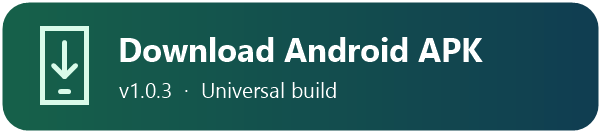
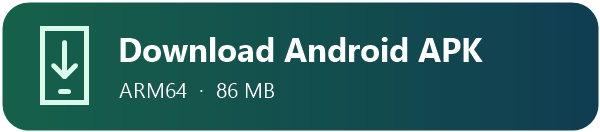
Make the 86 MB ARM64 APK the primary download

Changed region(s): [[0.18, 0.6061, 0.57, 0.7576]]

diff --git a/README.md b/README.md
@@ -7,11 +7,11 @@
 <p align="center">Download web videos, stream movies from integrated sources, and keep personal media in a PIN- or fingerprint-protected Vault.</p>
 
 <p align="center">
-  <a href="https://github.com/shahinrezasifat1999/all-in-one/releases/download/v1.0.3/all-in-one-v1.0.3.apk"><img src="docs/media/download-android.png" alt="Download Android APK v1.0.3 directly" width="300"></a>
+  <a href="https://github.com/shahinrezasifat1999/all-in-one/releases/download/v1.0.3/split-all-in-one-v1.0.3-arm64-v8a.apk"><img src="docs/media/download-android.png" alt="Download Android APK v1.0.3 for ARM64, 86 MB" width="300"></a>
 </p>
 
 <p align="center">
-  Android 7.0+ · <a href="#android-screenshots">See the app</a> · <a href="#download-and-install-on-android">Install guide</a> · <a href="https://github.com/shahinrezasifat1999/all-in-one/releases/latest">All APK variants</a>
+  Android 7.0+ · <a href="#android-screenshots">See the app</a> · <a href="#download-and-install-on-android">Install guide</a> · <a href="#choose-a-build">Other Android devices</a>
 </p>
 
 ## What can you do with All in One?
@@ -58,9 +58,20 @@ The YouTube images show the formats listed for that video. The download and Vaul
 
 ## Download and install on Android
 
-1. Select **Download Android APK** above for the universal build. [Direct APK download](https://github.com/shahinrezasifat1999/all-in-one/releases/download/v1.0.3/all-in-one-v1.0.3.apk)
+### Choose a build
+
+| Android APK | Download size | Device |
+| --- | ---: | --- |
+| [ARM64 (arm64-v8a)](https://github.com/shahinrezasifat1999/all-in-one/releases/download/v1.0.3/split-all-in-one-v1.0.3-arm64-v8a.apk) | 86.3 MB | Most modern Android phones and tablets |
+| [ARM 32-bit (armeabi-v7a)](https://github.com/shahinrezasifat1999/all-in-one/releases/download/v1.0.3/split-all-in-one-v1.0.3-armeabi-v7a.apk) | 86.4 MB | Older 32-bit ARM devices |
+| [x86_64](https://github.com/shahinrezasifat1999/all-in-one/releases/download/v1.0.3/split-all-in-one-v1.0.3-x86_64.apk) | 88.8 MB | Compatible Intel or AMD Android devices and emulators |
+| [Universal](https://github.com/shahinrezasifat1999/all-in-one/releases/download/v1.0.3/all-in-one-v1.0.3.apk) | 228.6 MB | Contains all three CPU architectures in one installer |
+
+Each architecture-specific APK includes the app and the media engines for its CPU. The listed size is the APK download size. Installed storage usage can be higher.
+
+1. Download the APK for your device. The main download button is for ARM64.
 2. Open the APK and follow Android’s install prompts. **Android 7.0 or later (API 24+)** is required.
-3. Open **All in One**. Set up the Private Vault from the app if you want to protect personal media.
+3. Open **All in One**. Set up the Private Vault if you want to protect personal media.
 
 ## Built with Flutter and Dart
 
